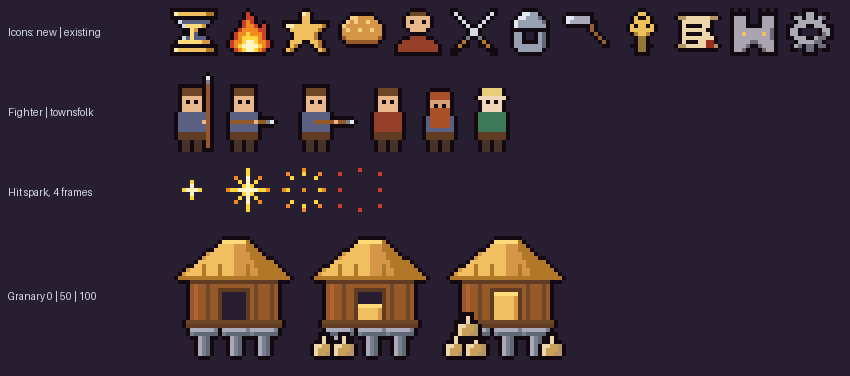
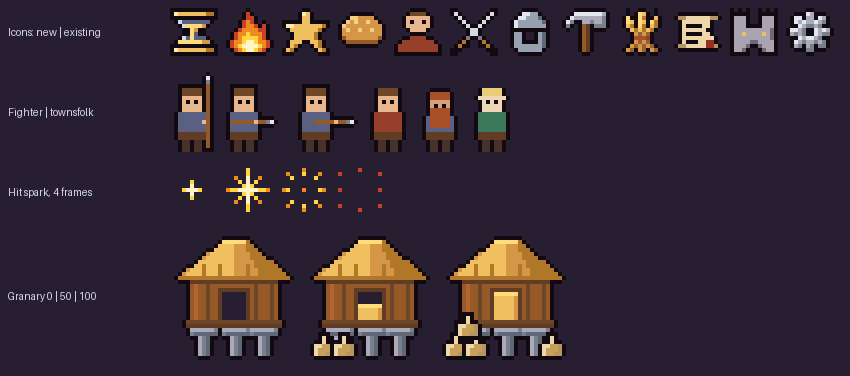
art(test-run): show the redrawn cog, sheaf and hammer in the review sheet

Changed region(s): [[0.6424, 0.0, 0.7953, 0.1463], [0.9176, 0.0293, 0.9788, 0.1463]]

diff --git a/_dev/art/agent/01-test-run/build.py b/_dev/art/agent/01-test-run/build.py
@@ -45,8 +45,11 @@ def frames(name, n, w):
     return [s.crop((i * w, 0, (i + 1) * w, s.height)) for i in range(n)]
 
 
-old_icons = [load(ref / f"icon-{n}.png") for n in
-             ("star", "food", "villager", "swords", "helm", "hammer", "wheat", "scroll", "castle", "cog")]
+# The set as it stands: the cog, sheaf and hammer come from the 02-icon-redraw batch.
+redraw = HERE.parent / "02-icon-redraw" / "out"
+old_icons = [load(redraw / f"icon_{n}.png") if n in ("hammer", "sheaf", "cog") else load(ref / f"icon-{n}.png")
+             for n in ("star", "food", "villager", "swords", "helm", "hammer", "sheaf", "scroll", "castle",
+                       "cog")]
 rows = [
     ("Icons: new | existing", [load(out / "icon_hourglass.png"), load(out / "icon_flame.png")] + old_icons),
     ("Fighter | townsfolk", [load(out / "ppl_fighter_idle.png")] + frames("ppl_fighter_attack", 2, 16)
